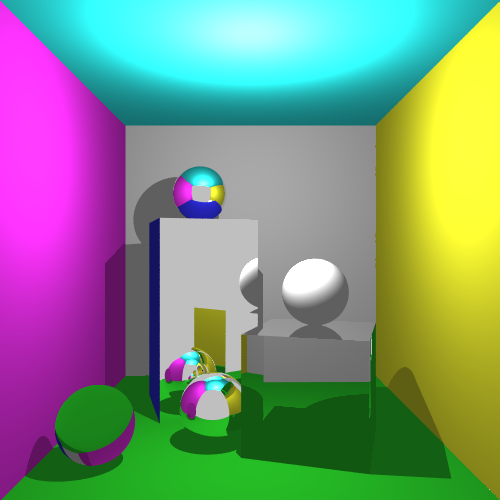
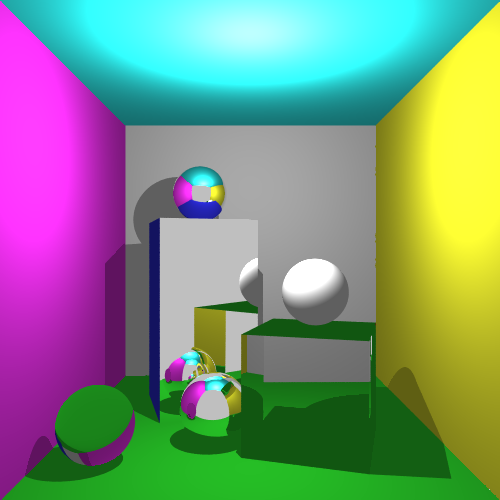
Slightly improved stochastic sampling AA / Added report up to AA

Changed region(s): [[0.48, 0.63, 0.75, 0.69], [0.39, 0.6, 0.51, 0.63]]

diff --git a/raytracing/latex/part2.tex b/raytracing/latex/part2.tex
@@ -1,4 +1,43 @@
 \section{Spheres}
+Let's add a new object: a sphere. The same kind of computations must be applied to a triangle and a sphere. Both are 3D objects, they have a reflectance $\rho$, are made of a specific material (only diffuse for now), have a normal and must be able to compute their intersection with a ray.
+
+Where a triangle is described by its 3 vertices, a sphere has a center C(cx, cy, cz) and a radius R. The intersection between a sphere and a ray is explained below, with P(px, py, pz) the starting point of the ray, $\vec{v}$ the ray direction and I the intersection.
+
+$dx = \vec{v}.x$
+
+$dy = \vec{v}.y$
+
+$dz = \vec{v}.z$
+
+$a = dx^2 + dy^2 + dz^2$
+
+$b = 2 dx (px - cx) + 2 dy (py - cy) + 2 dz (pz - cz)$
+
+$c =  cx^2 + cy^2 + cz^2 + px^2 + py^2 + pz^2 - 2 (cx * pc + cy * py + cz * pz) - R^2$
+
+The discriminant is $d = b^2 - 4 a c$
+
+If $d < 0$ there is no intersection, if $d = 0$ the ray is tangent to the sphere and intersects it in one point, if $d > 0$ the ray intersects the sphere in two points.
+
+To compute the closest intersection, solve our equation by computing m, $m = \frac{-b -\sqrt{d}}{2a}$
+
+This value represents the number of times $\vec{v}$ must be added to P to reach the closest intersection I.
+
+Therefore, I(ix, iy, iz) is
+
+$ix = px + t dx$
+
+$iy = py + t dy$
+
+$iz = pz + t dz$\\
+
+
+Now that we have our intersections, we must still compute the normal $\vec{n}$ at the intersection to obtain the amount of light reaching our intersection. The normal direction depends on the relative position between the intersection and the center of the sphere. Therefore,
+
+\begin{equation}
+\vec{n} = \frac{I - C}{R}
+\end{equation}
+
 \begin{figure}[H]
 \centering
 \includegraphics[width=0.4\linewidth]{img/spheres.jpg}
@@ -7,29 +46,94 @@
 
 
 \section{Ray-triangle intersection: optimization}
-New ray/triangle intersection algorithm:
-http://en.wikipedia.org/wiki/M%C3%B6ller%E2%80%93Trumbore_intersection_algorithm (3 times faster, 360ms)
+The intersection algorithm is the core of our raytracer and the most called method in our entire program. It is also a bottleneck which could be optimized and lead to great performances.
+
+By trying to reduce the render time of the ray tracer, I found an interesting paper describing a fast ray-triangle intersection algorithm by T. Möller and B. Trumbore \cite{moller2005fast}.
+
+While the algebra used for the calculations is slightly more complex than our previous algorithm, this implementation happens to be way faster, and reduced the render time of the overall process by 2.6 times. Our scene is now rendered in 360 ms instead of 930 ms.
 
 
 \section{Specular materials}
+The performances have been improved but our scene could be better. An interesting effect, which can also be very costly, would be to add specular materials.
+
+The way to do so is quite simple. Previously, the color of a pixel was obtained by multiplying the reflectance of the intersected object to the power light hitting the area, plus the indirect light constant. This procedure won't change, but we now check the material of the intersected object. If it's a specular material, we trace a new ray from the intersection and the color of the pixel will be the one hit by the new ray.
+
+The direction of the new ray is described in equation \ref{eq:specular}, where $\vec{d_i}$ is the incident ray direction, $\vec{n}$ the normal at the intersection and $\vec{d_r}$ the reflected ray direction.
+
+\begin{equation}
+\vec{d_r} = \vec{d_i} - 2 (\vec{n} \cdot \vec{d_i}) \vec{n}
+\label{eq:specular}
+\end{equation}
+
+This operation can be costly if we have many bounces between two specular materials, but it will also give a very nice visual effect. To prevent infinite bounces, we must however limit the maximal number of bounces, and return a default value when this threshold is reached. In the figure below, we can observe the multiple bounces with the left purple wall rendered in the mirror of the tall blue box after a bounce on the specular sphere. The black color reflected is the default color assigned to the "void", i.e. when a ray don't hit any object.
+
 \begin{figure}[H]
 \centering
-\includegraphics[width=0.4\linewidth]{img/specular.jpg}
+\includegraphics[width=0.35\linewidth]{img/specular.jpg}
 \caption{Specular materials}
 \end{figure}
 
 
 \section{Glass - Refraction}
+Glass is another interesting material. Yet, this one is tricky since is should refract and reflect rays, each ray having its own percentage of light transmitted according to the incident ray angle. In a first step, we will only implement refraction.
+
+The refraction and reflection formulas to compute those directions and percentages are described in by T Whitted in \cite{whitted1979improved}. However, a faster method, which can actually be proven as equivalent to the previous one using trigonometry and vector algebra, is detailed by PS Heckbert in \cite{heckbert1989derivation}.
+
+The idea lying in those papers is to first compute the cosine angle between the incident vector and the normal at the intersection.
+
+$ cos\theta_1 = \vec{d_i} \cdot \vec{n} $
+
+If the cosine is higher than 0, the incident and normal vectors have the same direction. If so, this means that we are inside the material, so we have already performed a refraction and want to perform a second one. We must therefore use $-\vec{n}$ instead of $\vec{n}$ to compute the next ray direction.
+
+We respectively define $i_1$ and $i_2$ the refractive indices of the current and next material. We remind that $i_{air} \approx 1.0$ and $i_{glass} \approx 1.52$ for most glass materials (nice effects can be obtained by using crystal and caustics, but this feature has not been implemented here).
+
+$\eta = \frac{i_1}{i_2}$
+
+\begin{equation}
+cos2\theta_1 = 1 - \eta^2 (1 - cos\theta_1^2)
+\label{eq:refraction_percent}
+\end{equation}
+
+If $cos2\theta_1$ is lower than 0, the incident ray is completely reflected. This effect, happening when the angle between the incident ray and the normal is higher than a certain threshold, is called \textit{total internal reflection}. $cos2\theta_1$ can actually be approximated as the percentage of light refracted. This is a very useful measure.
+
+The reflected ray direction is then calculated in the same way as in equation \ref{eq:specular}. The refracted ray direction is details in equation \ref{eq:refracted_angle} where $d_R$ is the refracted ray direction.
+
+\begin{equation}
+\vec{d_R} = \eta \vec{d_i} + (\eta cos\theta_1 - \sqrt{cos2\theta_1}) \vec{n}
+\label{eq:refracted_angle}
+\end{equation}
+
 \begin{figure}[H]
 \centering
-\includegraphics[width=0.4\linewidth]{img/glass_refraction.jpg}
+\includegraphics[width=0.35\linewidth]{img/glass_refraction.jpg}
 \caption{Refraction through glass (430 ms)}
+\label{fig:glass_refraction}
 \end{figure}
+
+As specified before, the reflection is not rendered in the previous figure. However, we can observe a total internal reflection with the yellow wall reflected in the mirror after multiple bounces in the glass. Yet, if most of the light should be reflected by the top of the box due to the incident angle, we haven't applied yet the percentage to the refracted ray, which explains the green color.
+
+The smoked glass effect is obtained by reducing the refracted light transmitted by 5\% when entering the object.
 
 
 \section{Anti-aliasing}
-\subsection{Edges detection}
+Our scene looks better now. Though the geometry could be improved. Many artifacts could be observed on the edges of figure \ref{fig:glass_refraction}. This aliasing is quite annoying, let's fix it. The following describes various anti-aliasing methods supported by the raytracer. Those algorithms are applied in post-processing, i.e. after the scene has been generated.
 
+\subsection{Edges detection}
+Since anti-aliasing can be a costly operation, we want to target only the pixels on the edges, this will avoid an important waste of time.
+
+Instead of displaying a pixel immediately after its computation, we store them in a 2D matrix representing our screen and containing the RGB vector of each pixel. When our scene is complete, we transform this matrix in a grayscale matrix containing values from 0 to 255 instead of RGB vectors. The transformation in equation \ref{eq:grayscale} respects the CCIR 601 recommendations. $I$ is the grayscale intensity, and $\vec{rgb}$ a RGB vector. Figure \ref{fig:grayscale} is the output of this transformation.
+
+\begin{equation}
+I = \vec{rgb} \cdot (0.2989, 0.5870, 0.1140)
+\label{eq:grayscale}
+\end{equation}
+
+Once we have computed the intensity, we must detect the intensity variations in the scene. This is achieved using the Sobel operator \cite{sobel19683x3}. We define $p_1$ ... $p_9$ the nine values constituting a 3x3 matrix, where $p_1$ is above and to the left, $p_5$ is the pixel itself, and $p_9$ is below and to the right. If the result of equation \ref{eq:sobel} is higher than a threshold (here 0.5), we add the pixel coordinates to a list on which anti-aliasing must be applied. Those pixels are displayed in white in figure \ref{fig:sobel}
+
+\begin{equation}
+ g = |( p_1 + 2 * p_2 + p_3 ) - ( p_7 + 2 * p_8 + p_9 )| + |( p_3 + 2 * p_6 + p_9 ) - ( p_1 + 2 * p_4 + p_7 )|
+\label{eq:sobel}
+\end{equation}
 
 \begin{figure}[H]
 \centering
@@ -37,16 +141,25 @@ http://en.wikipedia.org/wiki/M%C3%B6ller%E2%80%93Trumbore_intersection_algorithm
     \centering
     \includegraphics[width=\linewidth]{img/antialiasing/grayscale.jpg}
     \caption{Grayscale scene}
+    \label{fig:grayscale}
 \endminipage
 \minipage[t]{0.4\textwidth}
     \centering
     \includegraphics[width=\linewidth]{img/antialiasing/sobel.jpg}
     \caption{Edges detection (Sobel operator)}
+    \label{fig:sobel}
 \endminipage
 \end{figure}
 
 
 \subsection{Uniform}
+Once we know which pixels need anti-aliasing, we can improve the accuracy of our edges by shooting multiple rays in various directions inside each pixel.
+
+\begin{figure}[H]
+\centering
+\includegraphics[width=0.35\linewidth]{img/glass_awesome.png}
+\caption{Uniform anti-aliasing 8x}
+\end{figure}
 
 \subsection{Stochastic sampling}
 
@@ -91,10 +204,10 @@ They are zoomed
 
 
 \section{Glass - Reflection}
-20 bounces
+20 bounces, remove smoked glass
 \begin{figure}[H]
 \centering
-\includegraphics[width=0.4\linewidth]{img/glass_awesome.png}
+\includegraphics[width=0.35\linewidth]{img/glass_awesome.png}
 \caption{Glass: refraction and reflection}
 \end{figure}
 
@@ -141,6 +254,6 @@ The following scenes were processed for a 500x500 resolution without anti-aliasi
 
 %\begin{figure}[H]
 %\centering
-%\includegraphics[width=0.4\linewidth]{img/final.png}
+%\includegraphics[width=0.35\linewidth]{img/final.png}
 %\caption{Final scene}
 %\end{figure}

diff --git a/raytracing/latex/part1.tex b/raytracing/latex/part1.tex
@@ -1,13 +1,12 @@
 \section*{Introduction}
-This document describes the implementation and output of a raytracer managing direct light, shadows and camera translation and rotation.
+This document describes the implementation and output of a raytracer managing direct light, soft  and camera translation and rotation.
 
-The model used in this experiment is a cubic room available at \url{http://www.graphics.cornell.edu/online/box} and described in the file \textit{TestModel.h}.
+The model used in this experiment is a the Cornell Box available at \url{http://www.graphics.cornell.edu/online/box} and described in the file \textit{TestModel.h}.
 
 \setcounter{section}{0} 
 
 \section{Ray-triangle intersection}
 By representing rays as lines in 3D, defined by a starting point and a direction (3D vector), we are able to compute the intersection between a ray and a triangle as described below.
-
 This can be expressed as a line-plane intersection, where we check that the intersection lies in the triangle using the vectors $\vec{T_1T_3}$ and $\vec{T_1T_2}$.
 
 \begin{figure}[H]
@@ -16,8 +15,20 @@ This can be expressed as a line-plane intersection, where we check that the inte
 \caption{Ray-triangle intersection}
 \end{figure}
 
-These computations have been implemented in the methods \textit{vec3 GetIntersection(vec3 start, vec3 dir, Triangle triangle)} which returns the intersection between a ray (start point and direction) and a triangle, and
-\textit{bool ClosestIntersection(vec3 start, vec3 dir, const vector<Triangle>\& triangles, Intersection\& closestIntersection)} which returns true if the ray intersects the given triangle, false otherwise, and stores the intersection in the given parameter.
+These computations are implemented in the following method, which returns the intersection (t u v) between a ray described by a starting point and a direction and a triangle, with t distance and u and v triangle delimiters.
+\begin{lstlisting}
+vec3 GetIntersection(vec3 start, vec3 dir, Triangle triangle) {
+	vec3 v0 = triangle.v0;
+	vec3 v1 = triangle.v1;
+	vec3 v2 = triangle.v2;
+	vec3 e1 = v1 - v0;
+	vec3 e2 = v2 - v0;
+	vec3 b = start - v0;
+	mat3 A(-dir, e1, e2);
+	return glm::inverse(A) * b;
+}
+\end{lstlisting}
+
 
 \section{Tracing Rays}
 Using the pinhole camera model, rays are traced from the camera, lying in position (0, 0, -3) and directed toward the \textit{z} axis. Their closest intersection are then computed in order to display the closest triangle.
@@ -32,13 +43,12 @@ FOV_{horizontal} = 2 * arctan(\frac{\frac{width}{2}}{f}) = 2 * arctan(\frac{500}
 
 \begin{figure}[H]
 \centering
-\includegraphics[width=0.4\linewidth]{img/init.jpg}
+\includegraphics[width=0.3\linewidth]{img/init.jpg}
 \caption{Rendering output}
 \end{figure}
 
 \section{Moving the Camera}
 A camera rotation on the \textit{y}-axis has been introduced by multiplying the rays direction vector by the rotation matrix below, with $\theta$ the camera angle.
-
 \begin{equation}
 R = \left( \begin{array}{ccc}
 \cos(\theta) & 0 & \sin(\theta) \\
@@ -47,7 +57,6 @@ R = \left( \begin{array}{ccc}
 \end{equation}
 
 Then, obtaining the axes direction using equation \ref{eq:axes}, we can apply a camera translation by adding the corresponding axes direction to the camera position.
-
 \begin{equation}
 \label{eq:axes}
 \begin{split}
@@ -147,7 +156,7 @@ Eventually, to avoid black shadows and simulate the indirect illumination obtain
 
 Note that computing those bounces would result in a rendering much more realistic but also in a loss of performances.
 
-Therefore, the color of a triangle is now computed as follows, with \textit{N} the indirect illumination constant and $\rho$ the RGB vector of a triangle.
+Therefore, the color of a triangle is now computed as follows, with \textit{N} the indirect illumination constant and $\rho$ the RGB vector of a triangle (reflectance).
 \begin{equation}
 R = \rho * (D+N)
 \end{equation}

diff --git a/raytracing/raytracing/raytracing/raytracing.cpp b/raytracing/raytracing/raytracing/raytracing.cpp
@@ -15,7 +15,7 @@
 const int THREADS = 4;
 
 // If true, render the image, export it in a .bmp file then exit
-const bool EXPORT_AND_EXIT = true;
+const bool EXPORT_AND_EXIT = false;
 
 // Rendering resolution
 const int SCREEN_WIDTH = 1000;
@@ -32,7 +32,7 @@ int LIGHT_COLS = 16;
 const int MAX_BOUNCES = 15;
 
 // Anti aliasing
-const AntiAliasing ANTI_ALIASING = AntiAliasing::Uniform8x;
+const AntiAliasing ANTI_ALIASING = AntiAliasing::StochasticSampling16x;
 
 
 // ----------------------------------------------------------------------------
@@ -258,7 +258,7 @@ void initLightSurface() {
 /* Stochastic sampling applying the specified action
 * pixelx, pixely and the return value are only relevant for antialiasing calls */
 vec3 stochasticSampling(int action, int pixelx, int pixely, int rank) {
-	vec3 color(0, 0, 0);
+	vec3 color = screenPixels[pixely][pixelx];
 	int rows = 1, cols = 1, i = 0;
 	// Cell limits (subparts of a pixel)
 	float x, y, startx, starty, endx, endy, stepx, stepy, factor;
@@ -334,7 +334,7 @@ vec3 stochasticSampling(int action, int pixelx, int pixely, int rank) {
 		endy += stepy;
 	}
 
-	return color / (float)(rows * cols);
+	return color / ((float)(rows * cols) + 1);
 }
 
 /* Return false if the light cannot get to the given point because of another surface (shadow), true otherwise

diff --git a/raytracing/raytracing/raytracing/Sphere.h b/raytracing/raytracing/raytracing/Sphere.h
@@ -25,10 +25,9 @@ public:
 	/* Return true and initialize the intersection parameter if the ray defined by
 	 * the starting point and direction intersects the objects, false otherwise */
 	bool intersects(vec3 start, vec3 dir, vec3& intersection) {
-		vec3 p1 = start + dir;
-		float dx = p1.x - start.x;
-		float dy = p1.y - start.y;
-		float dz = p1.z - start.z;
+		float dx = dir.x;
+		float dy = dir.y;
+		float dz = dir.z;
 
 		float a = dx*dx + dy*dy + dz*dz;
 		float b = 2 * dx*(start.x - center.x) + 2 * dy*(start.y - center.y) + 2 * dz*(start.z - center.z);

diff --git a/raytracing/latex/rapport.tex b/raytracing/latex/rapport.tex
@@ -44,9 +44,8 @@ Rémi Domingues}
 
     %\frontmatter
     \thispagestyle{empty}
-    %\tableofcontents
+    \tableofcontents
     \addtocontents{toc}{\protect\thispagestyle{empty}}
-    \pagebreak
 
     %\mainmatter
     \pagestyle{headings}
@@ -55,6 +54,11 @@ Rémi Domingues}
 
     \input{part1}
     \input{part2}
+    \pagebreak
+    
+    \bibliographystyle{plain}
+    \renewcommand{\bibname}{References}
+    \bibliography{references}
 
     %\backmatter
 \end{document}
